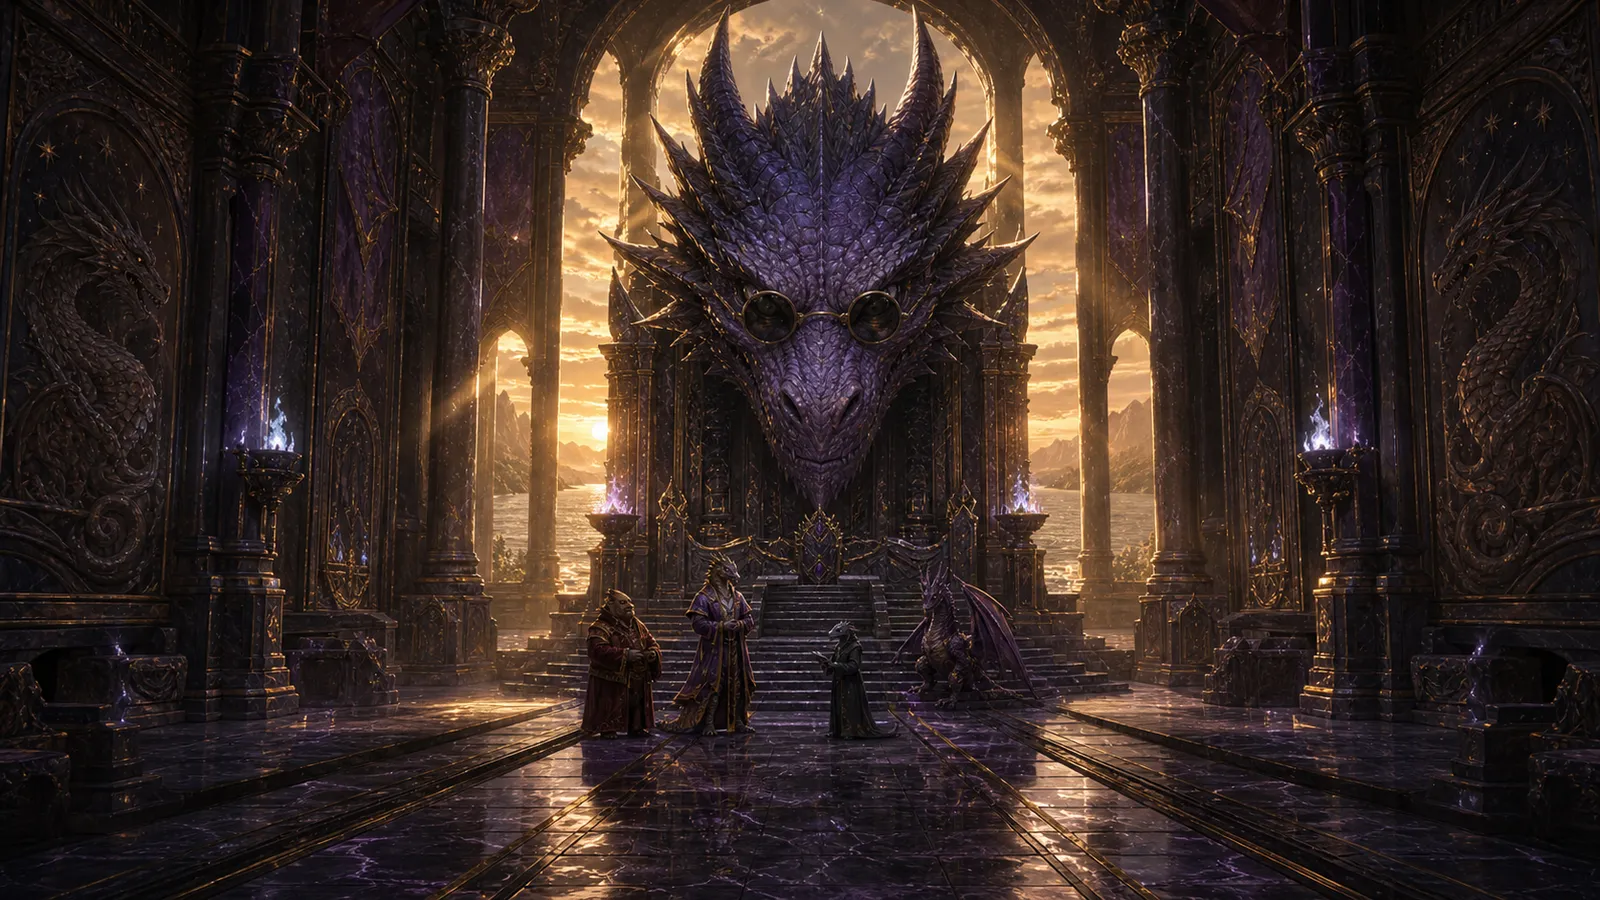
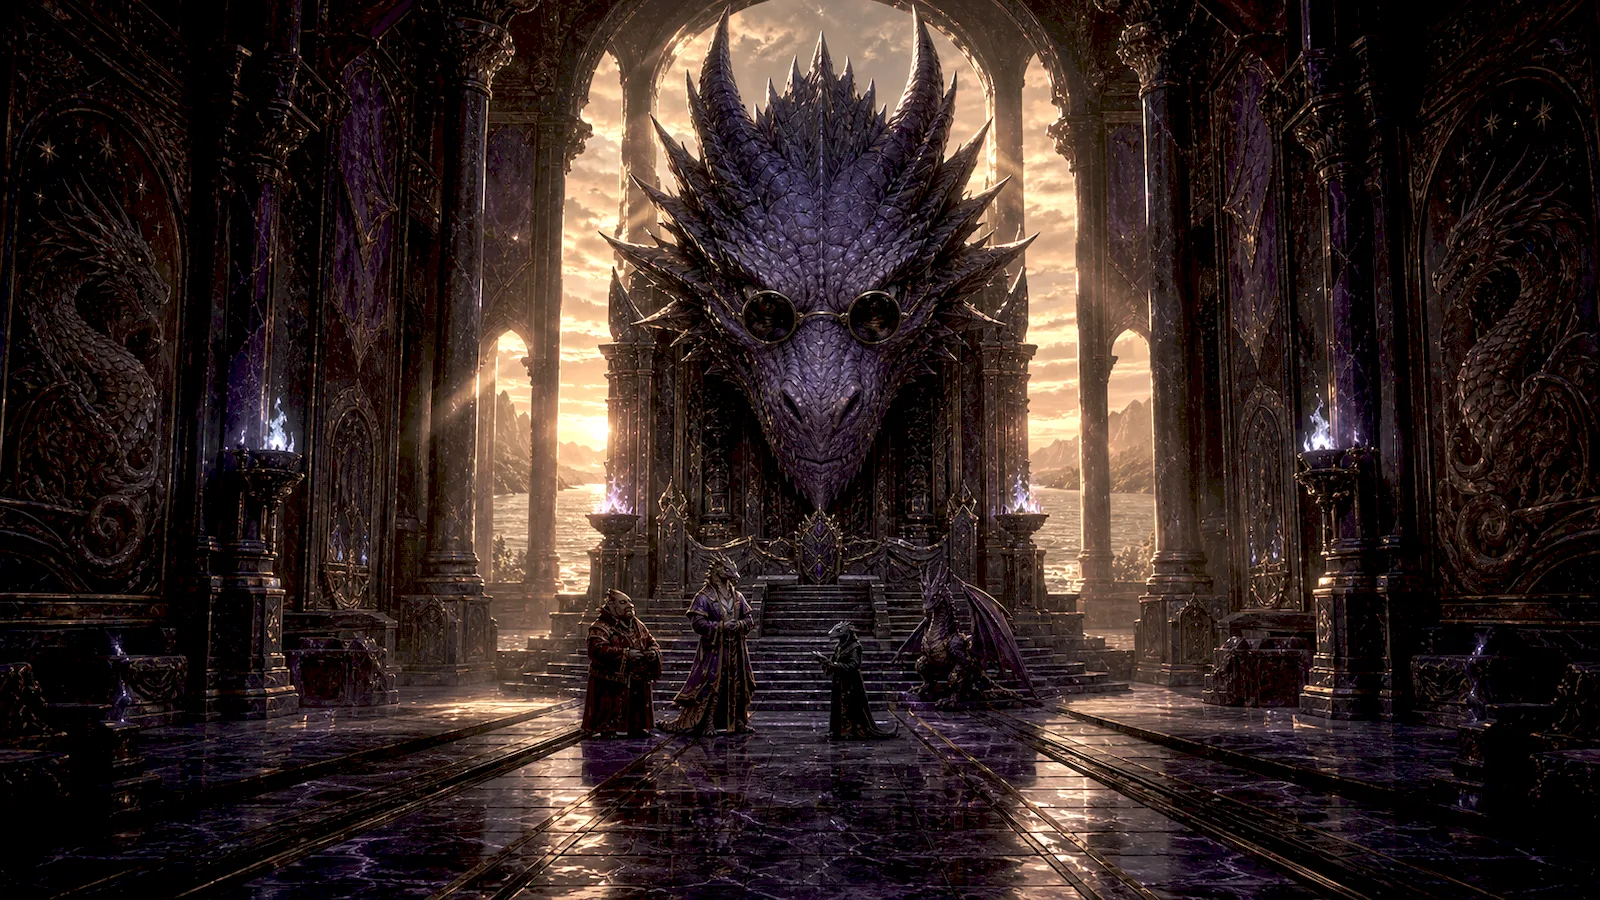
Brighten Burny's Chamber and restore the dragon anatomy plate
- Re-process Burny's Chamber from source with a brightness/gamma lift; the
  original is mostly dark marble and read as a near-black tile.
- Add back the dragon anatomy art (was the unused 'Burny Map' file) as a
  gallery piece with a clearer filename (dragon-anatomy.webp).

diff --git a/src/lib/content.ts b/src/lib/content.ts
@@ -92,6 +92,12 @@ export const CASE_STUDIES: CaseStudy[] = [
         aspect: "4 / 5",
       },
       {
+        src: "/mythreal/dragon-anatomy.webp",
+        alt: "An anatomical study of a dragon in aged-parchment ink — organs and circulatory detail drawn like a Renaissance plate.",
+        caption: "Field study — dragon anatomy",
+        aspect: "3 / 4",
+      },
+      {
         src: "/mythreal/teaminton-map.webp",
         alt: "A hand-finished parchment location map of Teaminton.",
         caption: "Location map — Teaminton",

diff --git a/public/mythreal/README.md b/public/mythreal/README.md
@@ -8,11 +8,12 @@ source PNGs with sharp; ~16MB of PNG → ~1.4MB of WebP). Paths are set in
 | ---------------------- | --------------------------------- |
 | `raefund-map.webp`     | hero — Raefund location map       |
 | `logo-gold.webp`       | gallery — primary wordmark        |
-| `burnys-chamber.webp`  | gallery — key art (Burny's chamber)|
+| `burnys-chamber.webp`  | gallery — key art (Burny's chamber, brightened) |
 | `blob-marley.webp`     | gallery — character (Blob Marley) |
+| `dragon-anatomy.webp`  | gallery — dragon anatomy plate (from "Burny Map") |
 | `teaminton-map.webp`   | gallery — Teaminton location map  |
 
 Generated but **not shown**: `minimalist-logo.webp` (the 3-sized dragon mark —
-removed per request) and `burny-map.webp` (a spare map). Swap either into the
-gallery in `content.ts` if you change your mind. The original `*.png` sources
-are left in place — safe to delete for a leaner deploy.
+removed per request). Swap it into the gallery in `content.ts` if you change
+your mind. The original `*.png` sources are left in place — safe to delete for a
+leaner deploy.